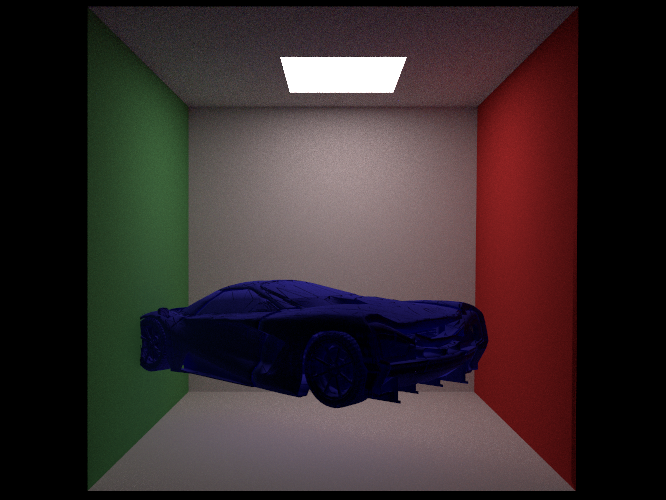
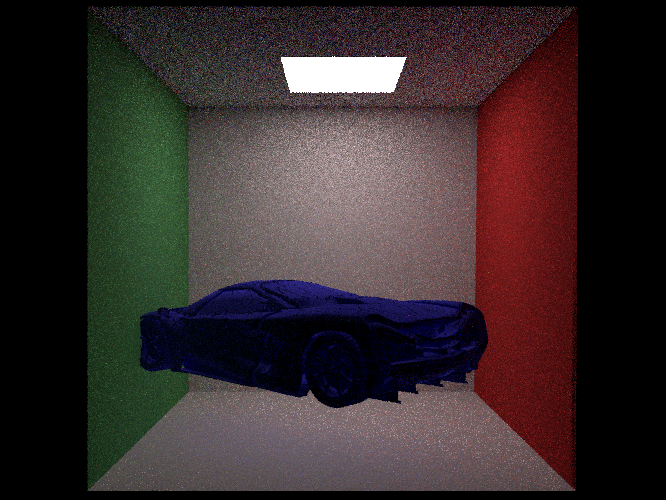
parallel union

diff --git a/src/accelerator/bvh.cpp b/src/accelerator/bvh.cpp
@@ -2,42 +2,16 @@
 #include <accelerator/bvh.h>
 #include <core/memory.h>
 #include <core/timer.h>
-
+#include <tbb/parallel_for.h>
+#include <tbb/spin_mutex.h>;
 namespace platinum
 {
-    // BVHAccel Utility Functions
-    inline uint32_t LeftShift3(uint32_t x)
-    {
-        CHECK_LE(x, (1 << 10));
-        if (x == (1 << 10))
-            --x;
-#ifdef PLATINUM_HAVE_BINARY_CONSTANTS
-        x = (x | (x << 16)) & 0b00000011000000000000000011111111;
-        // x = ---- --98 ---- ---- ---- ---- 7654 3210
-        x = (x | (x << 8)) & 0b00000011000000001111000000001111;
-        // x = ---- --98 ---- ---- 7654 ---- ---- 3210
-        x = (x | (x << 4)) & 0b00000011000011000011000011000011;
-        // x = ---- --98 ---- 76-- --54 ---- 32-- --10
-        x = (x | (x << 2)) & 0b00001001001001001001001001001001;
-        // x = ---- 9--8 --7- -6-- 5--4 --3- -2-- 1--0
-#else
-        x = (x | (x << 16)) & 0x30000ff;
-        // x = ---- --98 ---- ---- ---- ---- 7654 3210
-        x = (x | (x << 8)) & 0x300f00f;
-        // x = ---- --98 ---- ---- 7654 ---- ---- 3210
-        x = (x | (x << 4)) & 0x30c30c3;
-        // x = ---- --98 ---- 76-- --54 ---- 32-- --10
-        x = (x | (x << 2)) & 0x9249249;
-        // x = ---- 9--8 --7- -6-- 5--4 --3- -2-- 1--0
-#endif // PBRT_HAVE_BINARY_CONSTANTS
-        return x;
-    }
 
     REGISTER_CLASS(BVHAccel, "BVH");
 
     BVHAccel::BVHAccel(const PropertyTree &node) : Aggregate(node)
     {
-        int maxPrimsInNode = node.Get<int>("MaxPrimsInNode",1);
+        int maxPrimsInNode = node.Get<int>("MaxPrimsInNode", 1);
 
         BVHAccel::SplitMethod splitMethod;
         std::string sm = node.Get<std::string>("SplitMethod", "SAH");
@@ -61,12 +35,22 @@ namespace platinum
         Timer timer("BVH initialize");
         std::vector<BVHPrimitiveInfo> _primitiveInfo(_primitives.size());
 
-        // 储存每个aabb的中心以及索引
-        for (size_t i = 0; i < _primitives.size(); ++i)
-        {
-            auto aabb = _primitives[i]->WorldBound();
-            _primitiveInfo[i] = {i, aabb};
-        }
+        //并行构建
+        tbb::spin_mutex mtx;
+        tbb::parallel_for(tbb::blocked_range<size_t>(0, _primitives.size()),
+                          [&](tbb::blocked_range<size_t> r)
+                          {
+                              Bounds3f local_bound;
+                              for (size_t i = r.begin(); i < r.end(); ++i)
+                              {
+                                  auto aabb = _primitives[i]->WorldBound();
+                                  local_bound = UnionBounds(local_bound, aabb);
+                                  // 储存每个aabb的中心以及索引
+                                  _primitiveInfo[i] = {i, aabb};
+                              }
+                              std::lock_guard lck(mtx);
+                              _world_bounds = UnionBounds(_world_bounds, local_bound);
+                          });
 
         MemoryArena arena(1024 * 1024);
         int totalNodes = 0;

diff --git a/src/core/integrator.cpp b/src/core/integrator.cpp
@@ -2,7 +2,7 @@
 #include <core/integrator.h>
 #include <core/bsdf.h>
 #include <core/camera.h>
-#include <tbb/tbb.h>
+#include <tbb/parallel_for.h>
 #include <core/memory.h>
 #include <core/timer.h>
 namespace platinum
@@ -19,9 +19,12 @@ namespace platinum
         // Compute number of tiles, _nTiles_, to use for parallel rendering
         Bounds2i sampleBounds = _camera->_film->GetSampleBounds();
         Vector2i sampleExtent = sampleBounds.Diagonal();
+        //每一块大小为16*16
         constexpr int tileSize = 16;
+        //划分为nTiles.x * nTiles.y 块tiles
         Vector2i nTiles((sampleExtent.x + tileSize - 1) / tileSize, (sampleExtent.y + tileSize - 1) / tileSize);
-//  #define DEBUG
+        LOG(INFO) << nTiles;
+//#define DEBUG
 #ifndef DEBUG
         tbb::parallel_for(tbb::blocked_range<size_t>(0, nTiles.x * nTiles.y),
                           [&](tbb::blocked_range<size_t> r)
@@ -33,7 +36,8 @@ namespace platinum
         MemoryArena arena;
         for (size_t t = 0; t < nTiles.x * nTiles.y; ++t)
         {
-#endif
+#endif  
+                                //获取tile的坐标
                                   Vector2i tile(t % nTiles.x, t / nTiles.x);
                                   // Get sampler instance for tile
                                   int seed = t;
@@ -45,7 +49,6 @@ namespace platinum
                                   int y0 = sampleBounds._p_min.y + tile.y * tileSize;
                                   int y1 = glm::min(y0 + tileSize, sampleBounds._p_max.y);
                                   Bounds2i tileBounds(Vector2i(x0, y0), Vector2i(x1, y1));
-                                  //   LOG(INFO) << "Starting image tile " << tileBounds;
 
                                   // Get _FilmTile_ for tile
                                   std::unique_ptr<FilmTile> filmTile = _camera->_film->GetFilmTile(tileBounds);
@@ -112,7 +115,7 @@ namespace platinum
                                   _camera->_film->MergeFilmTile(std::move(filmTile));
                               }
 #ifndef DEBUG
-                          });
+                          },tbb::auto_partitioner());
 #endif
         LOG(INFO) << "Rendering finished";
         _camera->_film->WriteImageToFile();
@@ -324,3 +327,4 @@ namespace platinum
         return Ld;
     }
 }
+

diff --git a/src/accelerator/linear.cpp b/src/accelerator/linear.cpp
@@ -1,9 +1,12 @@
 
 
 #include <accelerator/linear.h>
-
+#include <tbb/parallel_for.h>
+#include <tbb/spin_mutex.h>
+#include <core/timer.h>
 namespace platinum
 {
+
     REGISTER_CLASS(LinearAggregate, "Linear");
 
     LinearAggregate::LinearAggregate(const PropertyTree &node)
@@ -14,14 +17,28 @@ namespace platinum
     LinearAggregate::LinearAggregate(const std::vector<Ptr<Primitive>> &hitables)
         : Aggregate(hitables)
     {
-        for (const auto &hitable : _primitives)
-        {
-            _world_bounds = UnionBounds(_world_bounds, hitable->WorldBound());
-        }
+        tbb::spin_mutex mtx;
+        tbb::parallel_for(tbb::blocked_range<size_t>(0, _primitives.size()),
+                          [&](tbb::blocked_range<size_t> r)
+                          {
+                              Bounds3f local_bound;
+                              for (size_t i = r.begin(); i < r.end(); ++i)
+                              {
+                                  auto aabb = _primitives[i]->WorldBound();
+                                  local_bound = UnionBounds(local_bound, aabb);
+                                  // 储存每个aabb的中心以及索引
+                               
+                              }
+                              std::lock_guard lck(mtx);
+                              _world_bounds = UnionBounds(_world_bounds, local_bound);
+                          });
+       
     }
 
     void LinearAggregate::Initialize()
     {
+        LOG(INFO) << "Construct Linear accelerator..";
+        Timer timer("Linear aggregate initialize");
         for (const auto &hitable : _primitives)
         {
             _world_bounds = UnionBounds(_world_bounds, hitable->WorldBound());
@@ -56,3 +73,4 @@ namespace platinum
         return is_hit;
     }
 }
+    

diff --git a/src/core/integrator.h b/src/core/integrator.h
@@ -40,12 +40,12 @@ namespace platinum
         /**
          * @brief  Li() 方法计算有多少光照量沿着该 Ray 到达成像平面，
          *          并把光照量（radiance）保存在 Film 内
-         * 
-         * @param scene 
-         * @param ray 
-         * @param sampler 
-         * @param depth 
-         * @return Spectrum 
+         *
+         * @param scene
+         * @param ray
+         * @param sampler
+         * @param depth
+         * @return Spectrum
          */
         virtual Spectrum Li(const Scene &scene, const Ray &ray, Sampler &sampler, MemoryArena &arena, int depth = 0) const = 0;
 

diff --git a/src/core/object.h b/src/core/object.h
@@ -227,7 +227,7 @@ namespace platinum
     public:                                                   \
         cls##_()                                              \
         {                                                     \
-            ObjectFactory::RegisterClass(name, cls##_create); \
+            ObjectFactory::RegisterClass ( name, cls##_create); \
         }                                                     \
     };                                                        \
     static cls##_ cls##_instance_;

diff --git a/src/tests/car/car.cpp b/src/tests/car/car.cpp
@@ -19,7 +19,7 @@ int main(int argc, char *argv[])
     auto& parser = Parser::GetInstance();
     Ptr<Integrator> integrator = nullptr;
     Ptr<Scene> scene = nullptr;
-    std::string filename = "D:/Homework/graphics/rendering/Platinum/assets/scene/cornellbox.json";
+    std::string filename = "D:/Homework/graphics/rendering/Platinum/assets/scene/cornellbox-car.json";
     parser.Parse(filename, scene, integrator);
     integrator->Render(*scene);
     google::ShutdownGoogleLogging();

diff --git a/src/tests/bunny/bunny.cpp b/src/tests/bunny/bunny.cpp
@@ -9,7 +9,7 @@ const static string log_info_path = root_path + "/logs/info";
 const static string log_warning_path = root_path + "/logs/warning";
 const static string log_error_path = root_path + "/logs/error";
 
-int main(int argc, char *argv[])
+ int main(int argc, char *argv[])
 {
     _CrtSetBreakAlloc(7685);
     google::InitGoogleLogging(argv[0]);
